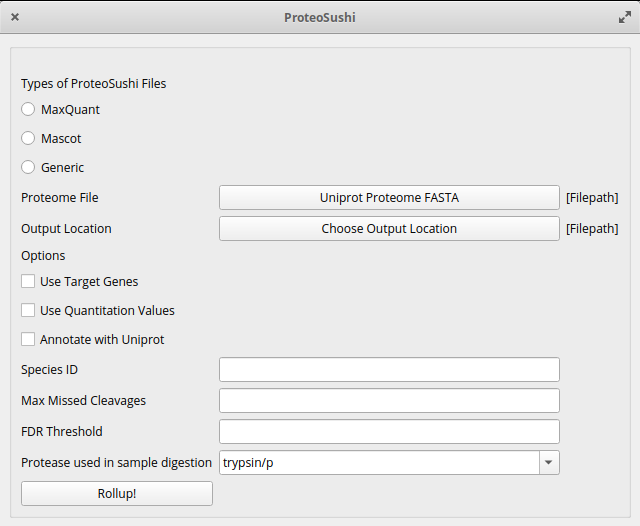
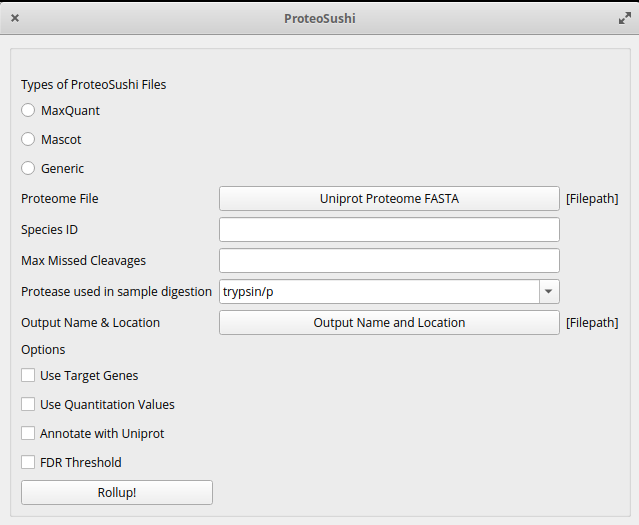
README updates

diff --git a/README.md b/README.md
@@ -174,53 +174,69 @@ First, choose the search engine used and select the output to use with the windo
 
 - MaxQuant
 
-    - Choose the MaxQuant output folder with the evidence.txt and summary.txt files inside
+    - Choose the MaxQuant output folder with the evidence.txt and summary.txt files inside (any extra files will not be used)
 
 - Generic
 
     - Choose the output from any search engine, however, it must have a peptide sequence and peptide modified sequence columns (along with a quantitation column labeled “Intensity” if you choose that option)
 
-ProteoSushi will then parse the file to autofill some information (Max missed cleavages, protease) and add the option to choose the PTM(s) to use in the analysis
+ProteoSushi will then parse the file to autofill some information (Species ID, Max missed cleavages, protease) and add the option to choose the PTM(s) to use in the analysis
 
 ![GUI with Search Engine Selected](search_engine_gui.png)
 
-Choose the PTM(s) that will be used in the analysis. The options available are dynamic and will change based on the file provided. ( note: If there are many different PTMs in the file, you may need to move the ProteoSushi window horizontally as they will all be in the same line)
+Choose the PTM(s) that will be used in the analysis. The options available are dynamic and will change based on the file provided. (Note: If there are many different PTMs in the file, you may need to move the ProteoSushi window horizontally as they will all be in the same line)
 
 Next, choose the FASTA Uniprot proteome to use in ProteoSushi.
-
-After that, choose the ProteoSushi output file name and location.
-
-Following this is the **Options** section with some settings that can be added or ignored based on your analysis.
-
-First, choose whether to use a prioritized gene list. If so, choose the file to be used. 
-These genes will be used if there is a tie of annotation score between multiple matches for a PTM site of a peptide. 
-If one of the PTM sites is part of a gene from this list, it will be chosen.
-
-Second, choose whether to use the quantitation values. 
-You will need to specify whether to sum or average values that will be combined. 
-The columns used for quantitation must have "intensity" in the header.
 
 If not already filled in, specify the number of maximum allowed missed cleavages for a given peptide (usually about 3). 
 A higher number will cause the analysis to take longer, but can allow for more matches (possibly). 
 It is usually best to stay consistent with what was chosen for the search engine originally.
 
-If not already filled in, specify the protease used in the sample digestion step. 
+If not correctly filled in, specify the protease used in the sample digestion step. 
 Possible proteases are specified if you hover the cursor over the text here. 
 These include:
 
 - trypsin/p
 
+    - Cleaves after Lysine (K) or Arginine (R)
+
 - trypsin!p
+
+    - Cleaves after Lysine (K) or Arginine (R), but not before Proline (P)
 
 - lys-c
 
+    - Cleaves after Lysine (K)
+
 - asp-n
+
+    - Cleaves before Aspartate (D)
 
 - asp-ne
 
+    - Cleaves before Aspartate (D) and Glutamate (E)
+
 - lys-n
 
-Specify the threshold for FDR, if using Mascot or Maxquant. This value can be left blank if you do not want to specify a threshold.
+    - Cleaves before Lysine (K)
+
+After that, choose the ProteoSushi output file name and location.
+
+Following this is the **Options** section with some settings that can be added or ignored based on your analysis.
+
+First, if using MaxQuant, a localization threshold can be set as a number between 0 and 1. Any PTM sites with a localization probability below that threshold will not be rolled up. If this is not provided, ProteoSushi will use the localization determination by MaxQuant.
+
+Second, choose whether to use a prioritized gene list. If so, choose the file to be used. 
+These genes will be used if there is a tie of annotation score between multiple matches for a PTM site of a peptide. 
+If one of the PTM sites is part of a gene from this list, it will be chosen.
+
+Third, choose whether to use the quantitation values. 
+You will need to specify whether to sum or average values that will be combined. 
+**The columns used for quantitation must have "intensity" or "intensities" in the header.**
+
+Fourth, choose whether ProteoSushi should annotated the rolled-up sites using data from Uniprot
+
+Fifth, if using Mascot or Maxquant, you can optionally specify an FDR threshold between 0 and 1
 
 Once all of the necessary options are included, click on the **“Rollup!”** button to start the analysis.
 
@@ -228,11 +244,11 @@ Once all of the necessary options are included, click on the **“Rollup!”** b
 
 Results will be returned as a CSV spreadsheet with the name and location based on what the user chose earlier.
 
-The resulting file will include information for each modified residue of interest including:
-
 ![Image of sample results](sample_results.png)
 
-- Peptide
+The resulting file will include information for each modified residue of interest including:
+
+- Peptide (Note that each cleaved peptide must have a minimum length of 5 and a maximum length of 55)
 
 - Uniprot ID
 
